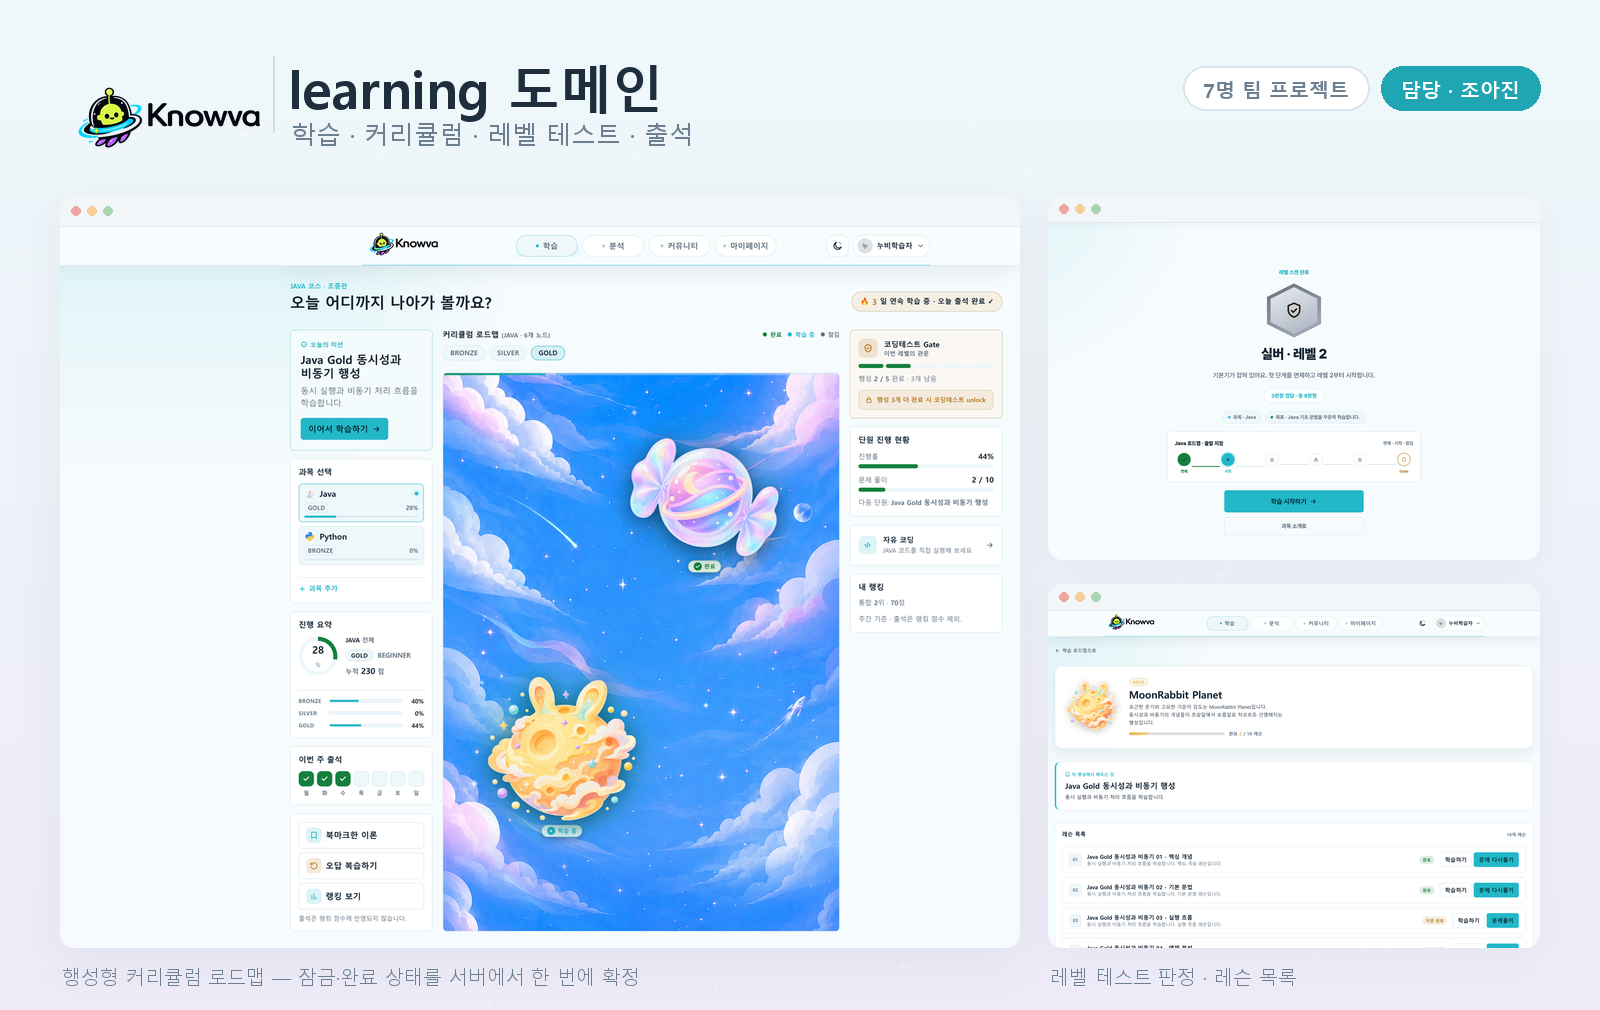
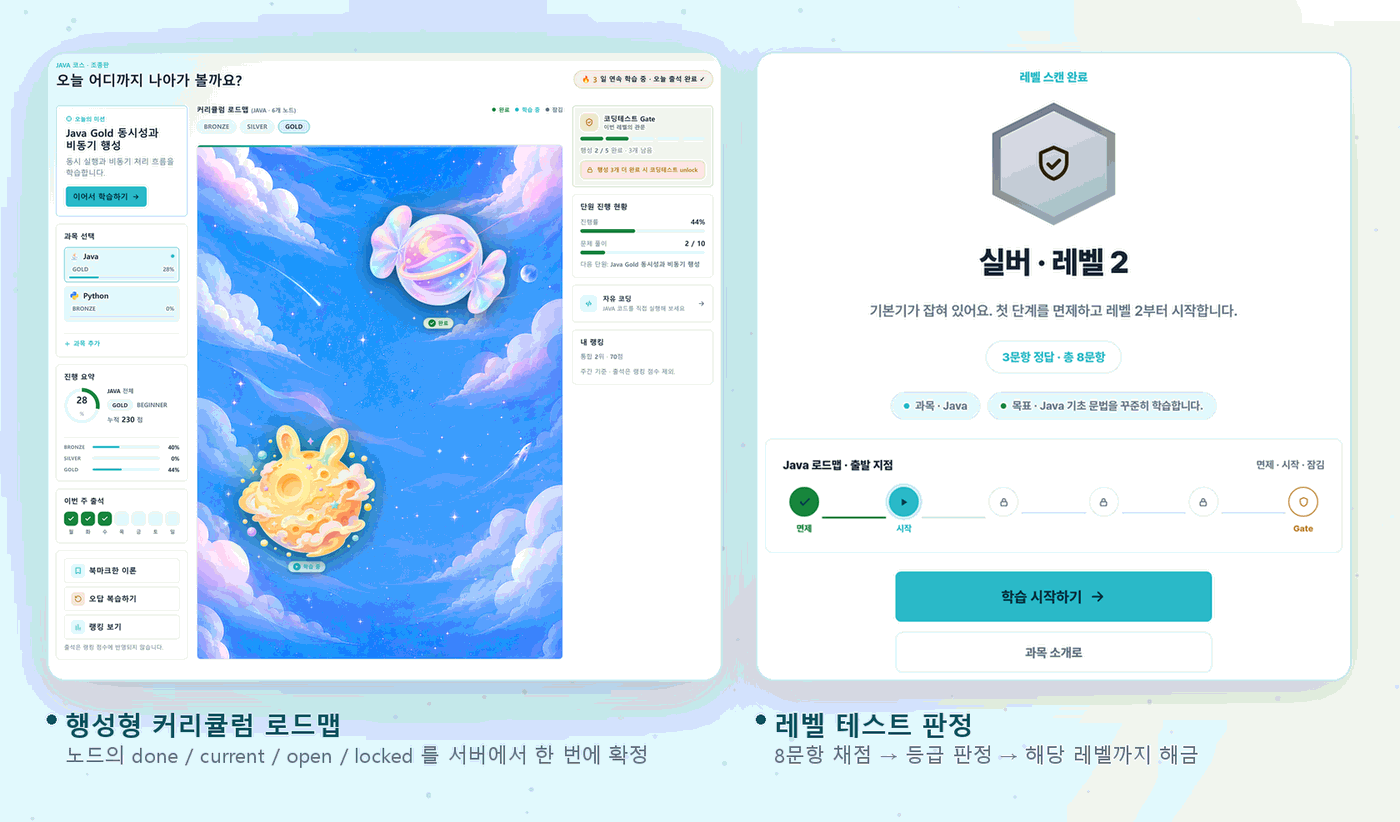
docs: README 상단을 로고 우선 순서로 교체하고 히어로·배지 재제작
- 순서 교체: 로고 → 한 줄 소개 → 배지 → 내비 → 목업 (기존은 목업이 첫 화면)
- 히어로 재제작: 상단 헤더 밴드(로고·제목·태그) 제거 — 마크다운과 중복이었음
  브라우저 크롬 제거, 배경·그림자 팔레트를 앱 실제 토큰(tokens.css)에서 사용
  캡션 확대, 화면 2장을 잘림 없이 배치. 565KB → 98KB
- 다크/라이트 대응: 로고·히어로를 <picture> + prefers-color-scheme 로 2벌 제공
- 배지 재구성: 채도 낮은 청회색 4개 → 정보 줄(브랜드 단색 통일) + 기술 줄(공식 색·로고) 2단

diff --git a/README.md b/README.md
@@ -1,18 +1,33 @@
 <p align="center">
-  <img src="docs/portfolio/images/01_hero.png" width="100%" alt="Knowva learning 도메인 — 행성형 커리큘럼 로드맵, 레벨 테스트 판정, 레슨 목록" />
+  <picture>
+    <source media="(prefers-color-scheme: dark)" srcset="docs/portfolio/images/logo_dark.png" />
+    <img src="docs/portfolio/images/logo_light.png" width="300" alt="Knowva" />
+  </picture>
 </p>
 
-<h1 align="center">Knowva · learning 도메인</h1>
+<h1 align="center">learning 도메인</h1>
 
 <p align="center">
   <strong>단계 잠금 · 출석/스트릭 · 레벨 테스트 · 북마크 — 학습 진행 규칙을 서비스와 DB 계층에서 다룬 도메인</strong>
 </p>
 
 <p align="center">
-  <img src="https://img.shields.io/badge/Role-learning%20domain-20A5B2" alt="담당 도메인" />
-  <img src="https://img.shields.io/badge/Team-7%20members-6C8092" alt="팀 규모" />
-  <img src="https://img.shields.io/badge/Commits-55-4C8DAE" alt="커밋 수" />
-  <img src="https://img.shields.io/badge/Stack-Java%2017%20·%20Spring%20Boot-2F6F8F" alt="스택" />
+  <img src="https://img.shields.io/badge/%EB%8B%B4%EB%8B%B9-learning%20%EB%8F%84%EB%A9%94%EC%9D%B8-22B8C8?style=flat-square&labelColor=0A4F5B" alt="담당 learning 도메인" />
+  <img src="https://img.shields.io/badge/%ED%8C%80-7%EB%AA%85%20%ED%94%84%EB%A1%9C%EC%A0%9D%ED%8A%B8-22B8C8?style=flat-square&labelColor=0A4F5B" alt="팀 7명 프로젝트" />
+  <img src="https://img.shields.io/badge/%EA%B8%B0%EA%B0%84-2026.06~07-22B8C8?style=flat-square&labelColor=0A4F5B" alt="기간 2026.06~07" />
+  <img src="https://img.shields.io/badge/%EC%BB%A4%EB%B0%8B-55-22B8C8?style=flat-square&labelColor=0A4F5B" alt="커밋 55" />
+  <img src="https://img.shields.io/badge/%ED%8F%89%EA%B0%80-%ED%8C%80%201%EC%9C%84%20%28%EC%B5%9C%EC%9A%B0%EC%88%98%EC%83%81%29-E8871E?style=flat-square&labelColor=0A4F5B" alt="평가 팀 1위 (최우수상)" />
+</p>
+
+<p align="center">
+  <img src="https://img.shields.io/badge/Java%2017-ED8B00?style=flat-square&logo=openjdk&logoColor=white" alt="Java 17" />
+  <img src="https://img.shields.io/badge/Spring%20Boot-6DB33F?style=flat-square&logo=springboot&logoColor=white" alt="Spring Boot" />
+  <img src="https://img.shields.io/badge/MyBatis-C74634?style=flat-square" alt="MyBatis" />
+  <img src="https://img.shields.io/badge/MySQL%208-4479A1?style=flat-square&logo=mysql&logoColor=white" alt="MySQL 8" />
+  <img src="https://img.shields.io/badge/Thymeleaf-005F0F?style=flat-square&logo=thymeleaf&logoColor=white" alt="Thymeleaf" />
+  <img src="https://img.shields.io/badge/Docker-2496ED?style=flat-square&logo=docker&logoColor=white" alt="Docker" />
+  <img src="https://img.shields.io/badge/AWS%20EC2-232F3E?style=flat-square" alt="AWS EC2" />
+  <img src="https://img.shields.io/badge/GitHub%20Actions-2088FF?style=flat-square&logo=githubactions&logoColor=white" alt="GitHub Actions" />
 </p>
 
 <p align="center">
@@ -21,6 +36,13 @@
   <a href="#-트러블슈팅">트러블슈팅</a> ·
   <a href="#-실행-방법">실행 방법</a> ·
   <a href="#-팀-프로젝트-knowva">팀 프로젝트 전체</a>
+</p>
+
+<p align="center">
+  <picture>
+    <source media="(prefers-color-scheme: dark)" srcset="docs/portfolio/images/01_hero_dark.png" />
+    <img src="docs/portfolio/images/01_hero.png" width="100%" alt="담당 화면 — 행성형 커리큘럼 로드맵, 레벨 테스트 판정" />
+  </picture>
 </p>
 
 > **7명이 함께 만든 팀 프로젝트입니다.** 이 README의 위쪽 절반은 제가 맡은 `learning` 도메인만 다루고,
